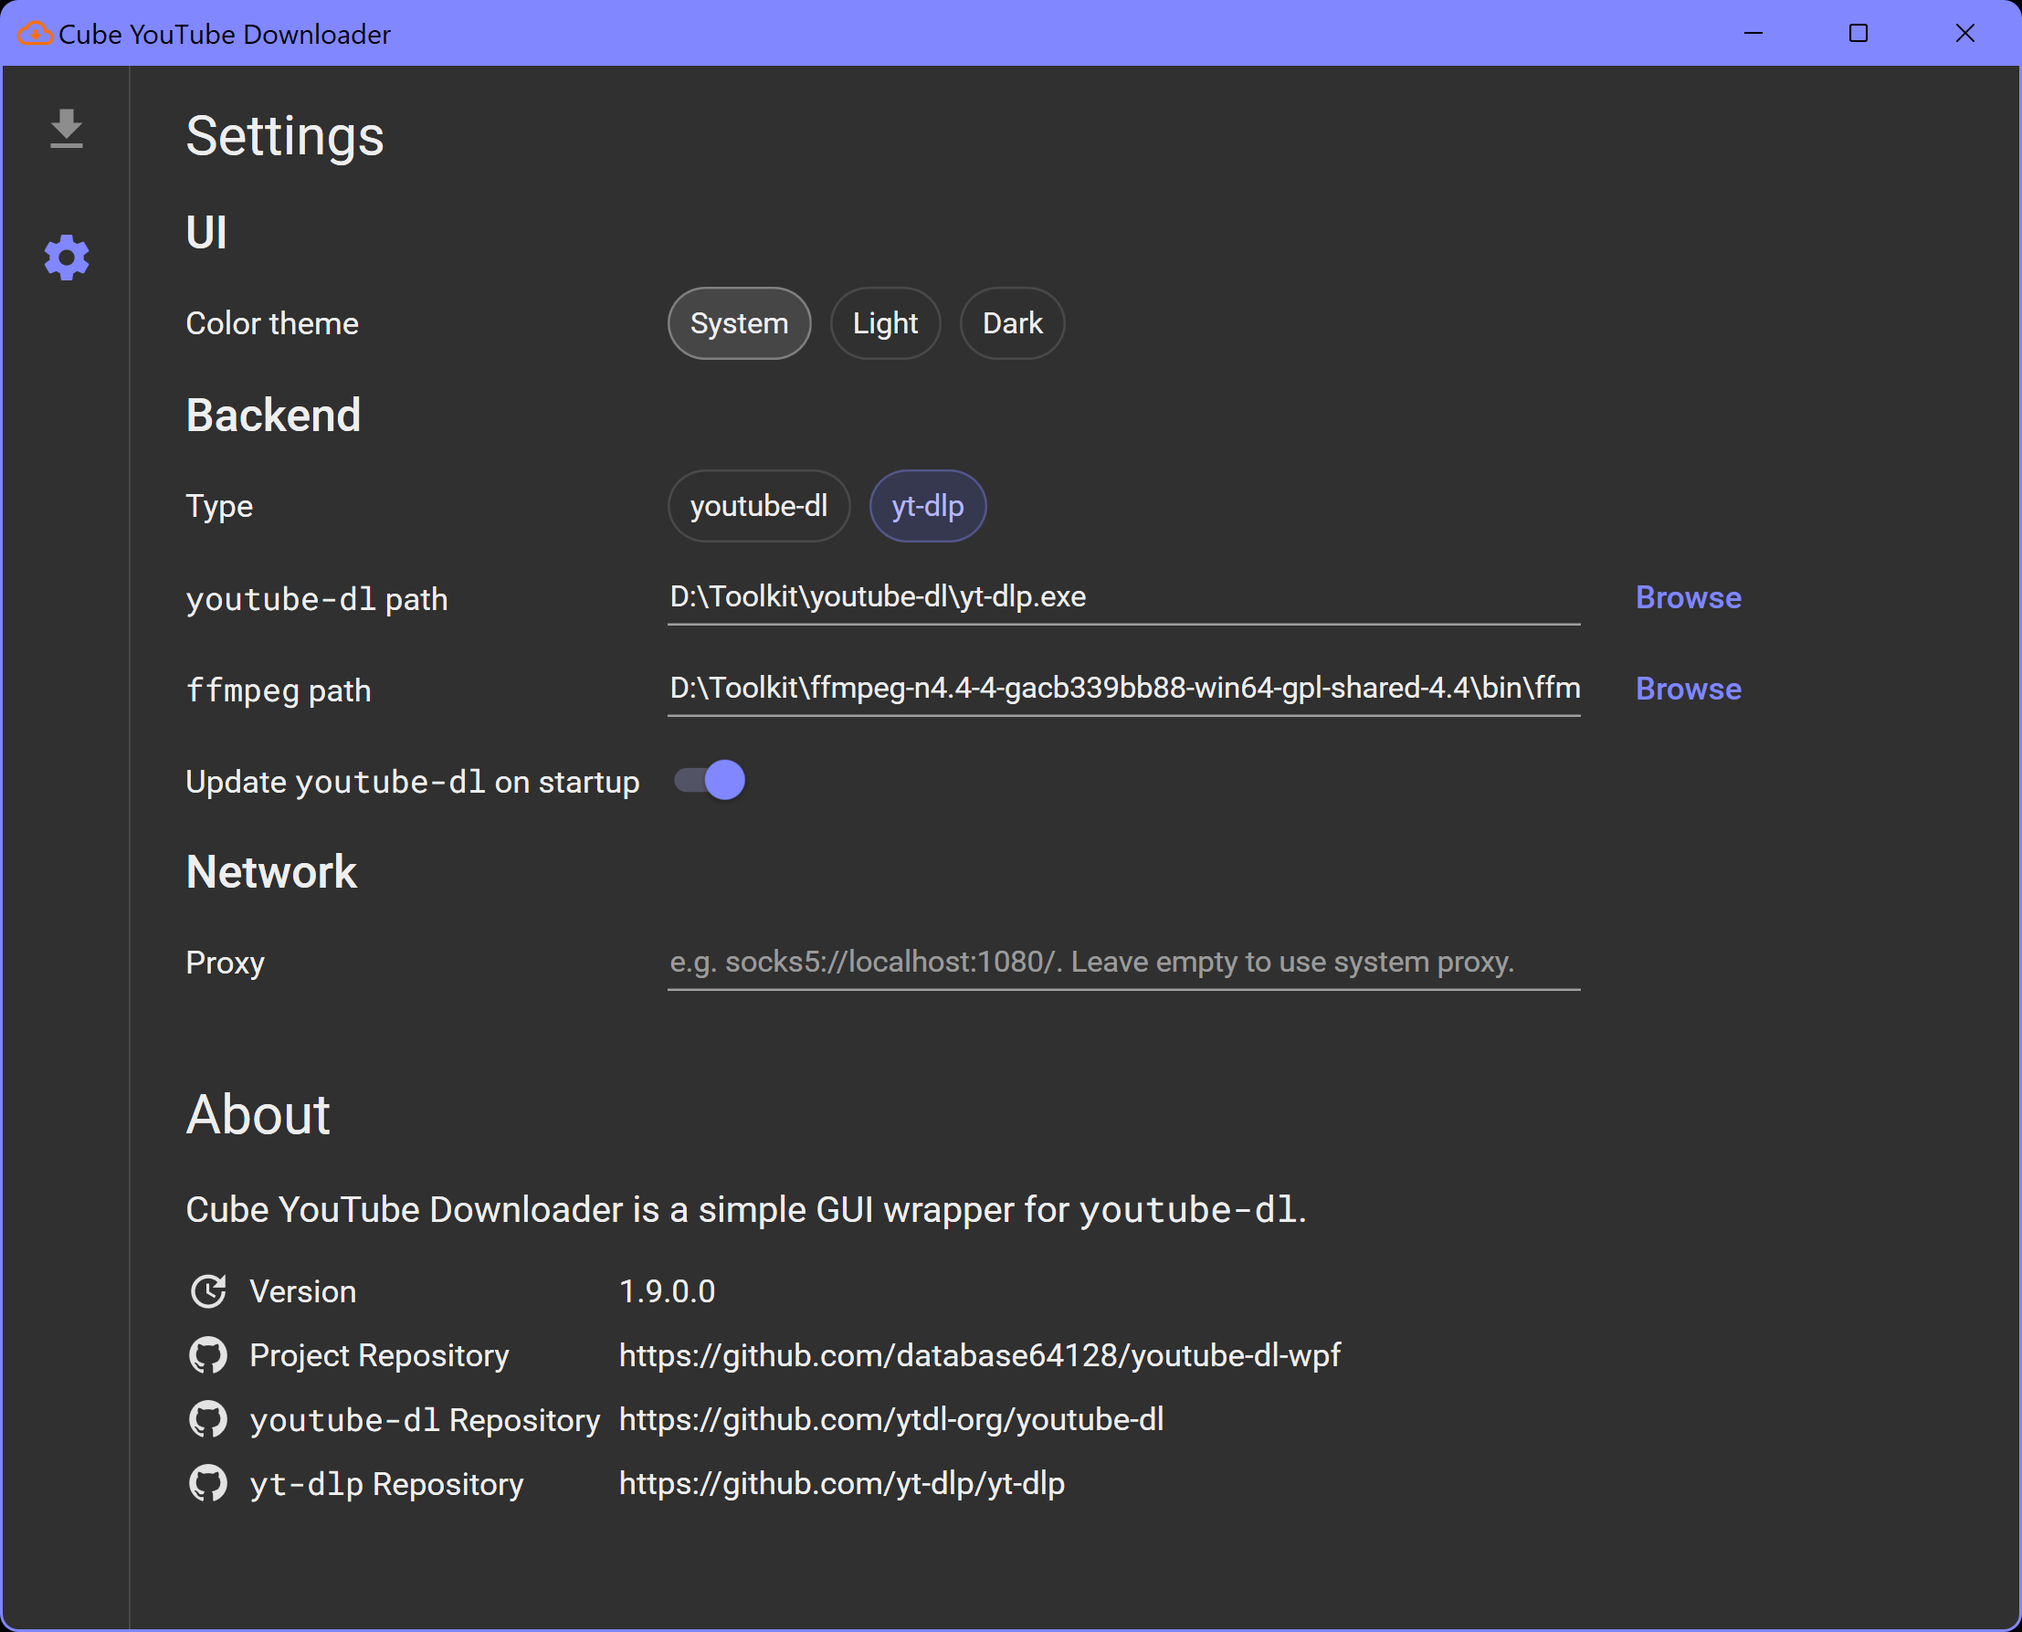
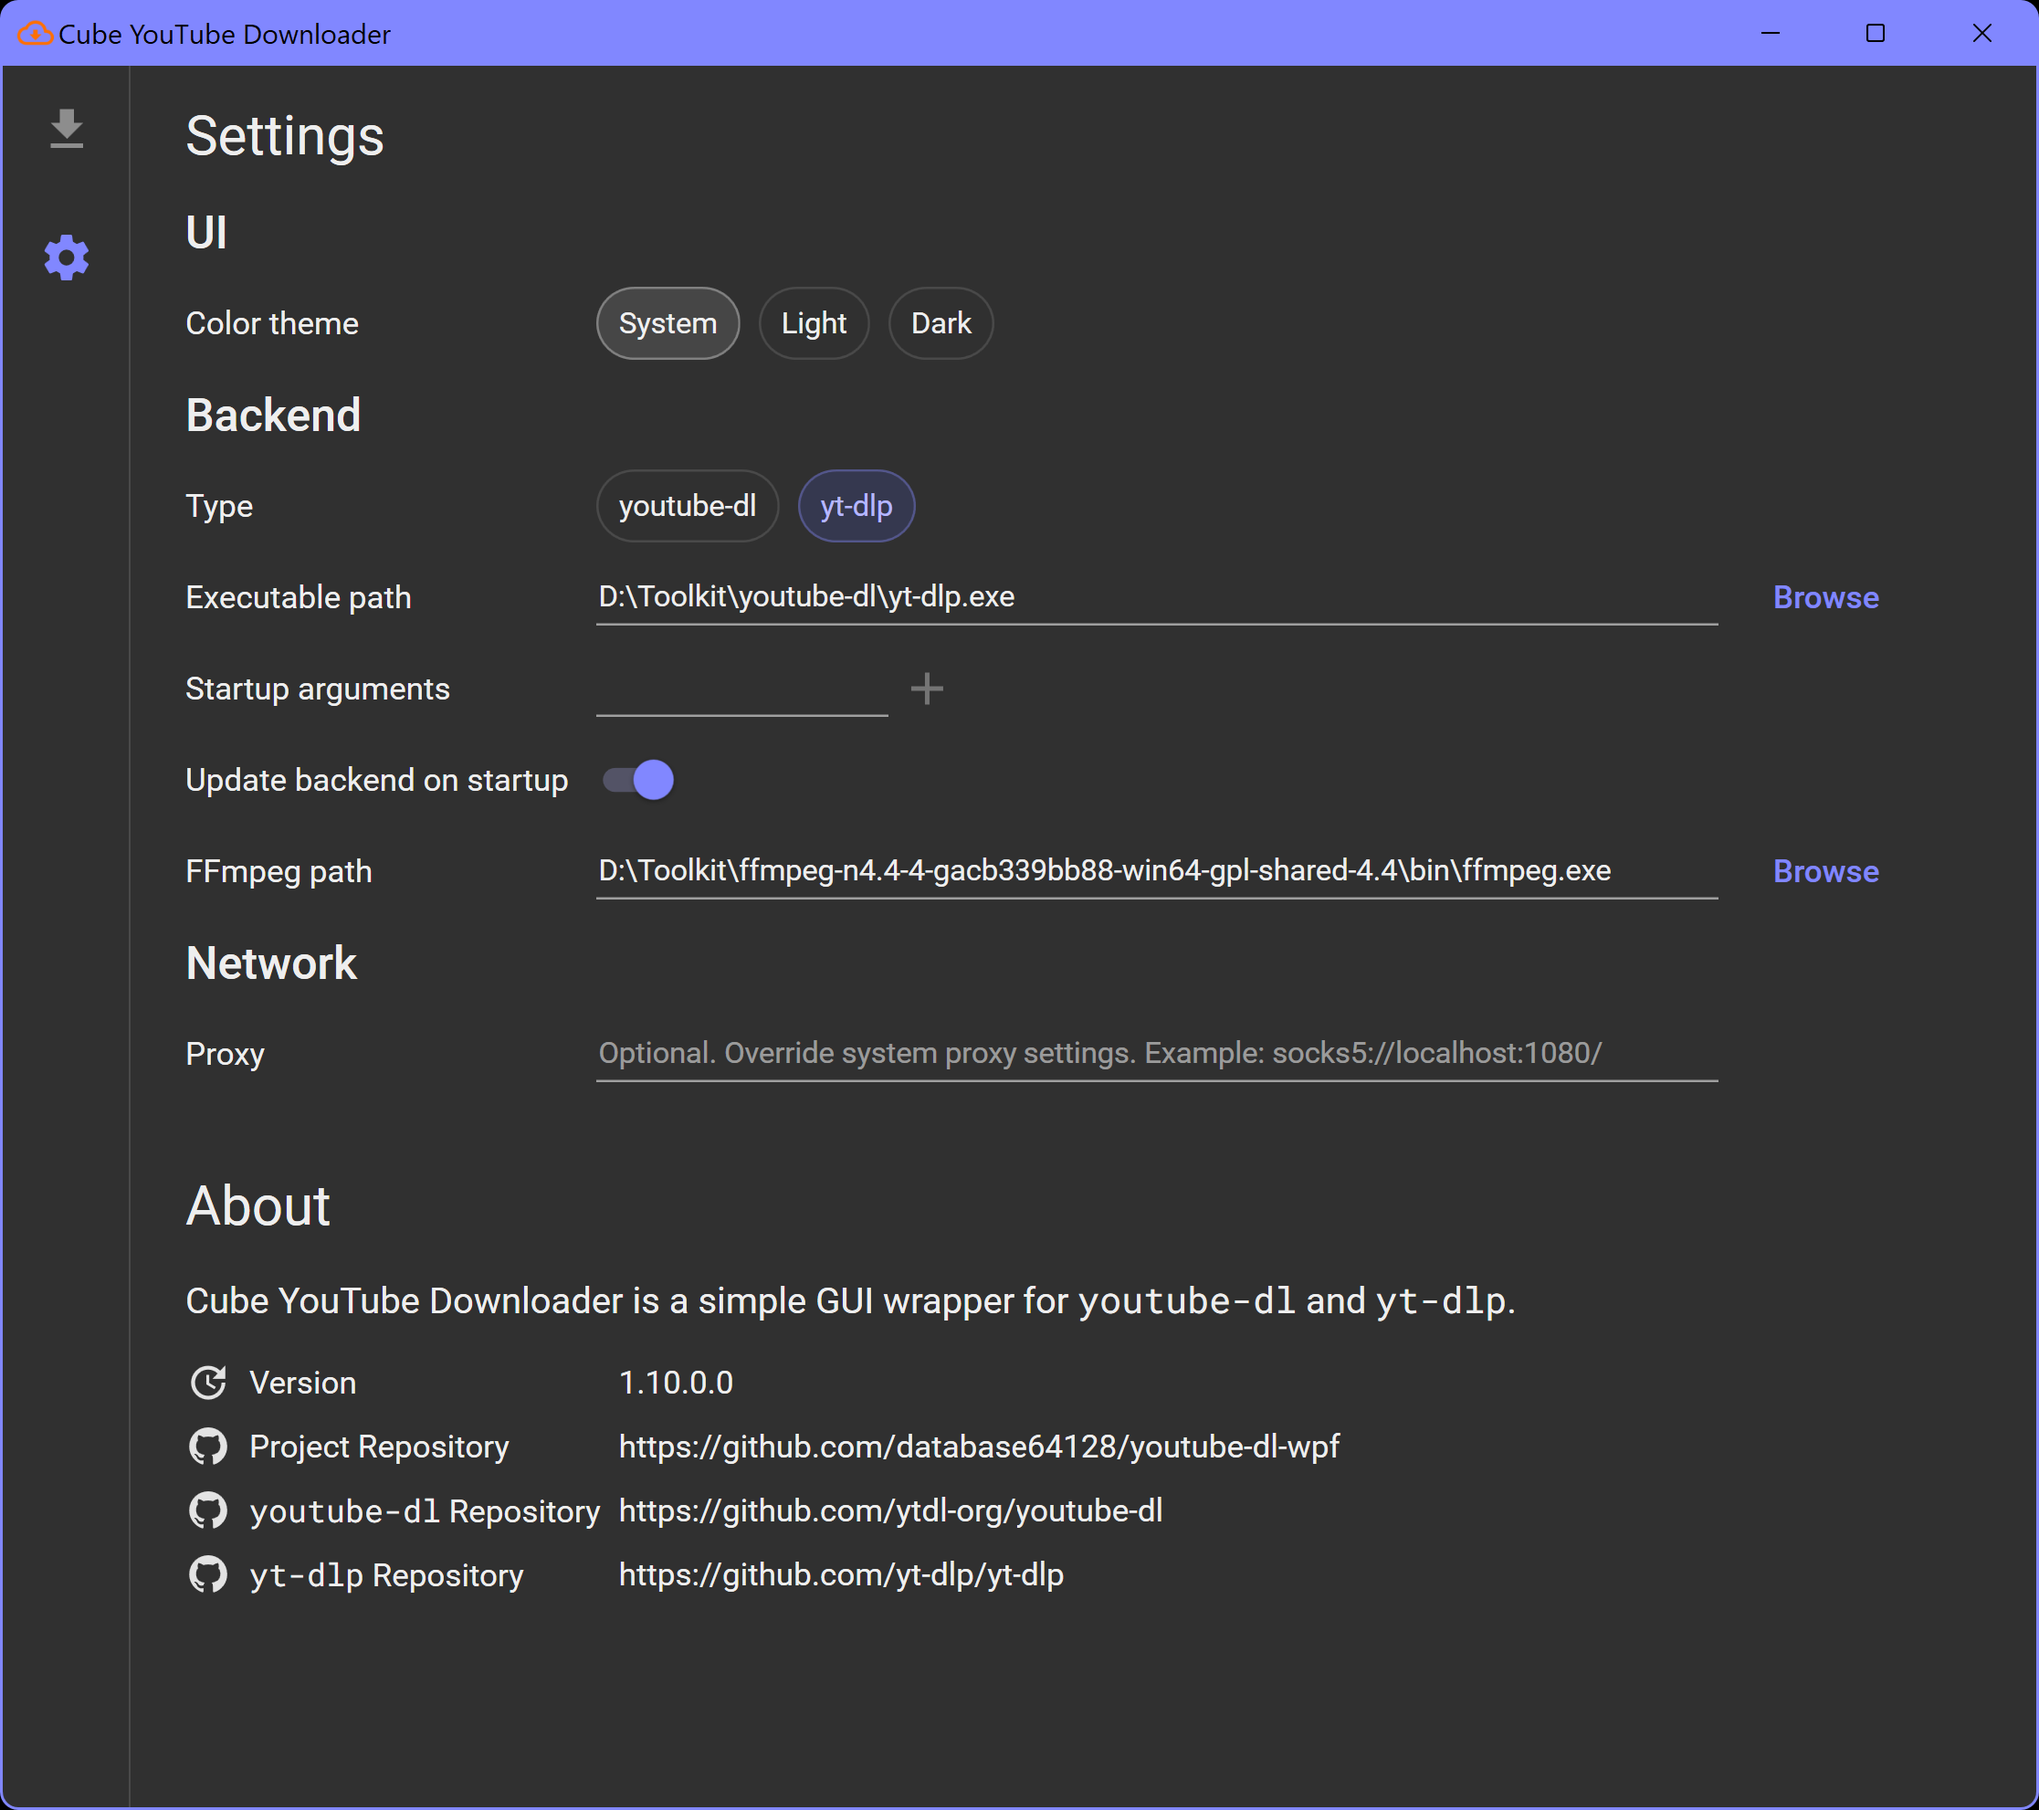
🦃 Bump version to v1.10 and update screenshots and README

diff --git a/README.md b/README.md
@@ -22,6 +22,7 @@ A simple GUI wrapper for [`youtube-dl`](https://github.com/ytdl-org/youtube-dl) 
 - Specify custom download path.
 - Specify custom `ffmpeg` path.
 - Specify custom proxy.
+- Specify custom command-line arguments.
 
 ## Usage
 
@@ -63,18 +64,28 @@ Prerequisites: .NET 6 SDK
 
 Note for packagers: The application by default uses executable directory as config directory. To use user's config directory, define the constant `PACKAGED` when building.
 
+###  Build with Release configuration
+
 ```bash
-# Build with Release configuration
-$ dotnet build -c Release
+dotnet build -c Release
+```
 
-# Publish as framework-dependent
-$ dotnet publish YoutubeDl.Wpf -c Release
+### Publish as framework-dependent
 
-# Publish as self-contained for Windows x64
-$ dotnet publish YoutubeDl.Wpf -c Release -r win-x64 --self-contained
+```bash
+dotnet publish YoutubeDl.Wpf -c Release
+```
 
-# Publish as self-contained for packaging on Windows x64
-$ dotnet publish YoutubeDl.Wpf -c Release -p:DefineConstants=PACKAGED -r win-x64 --self-contained
+### Publish as self-contained for Windows x64
+
+```bash
+dotnet publish YoutubeDl.Wpf -c Release -r win-x64 --self-contained
+```
+
+### Publish as self-contained for packaging on Windows x64
+
+```bash
+dotnet publish YoutubeDl.Wpf -c Release -p:DefineConstants=PACKAGED -r win-x64 --self-contained
 ```
 
 ## License

diff --git a/Backends.md b/Backends.md
@@ -5,3 +5,5 @@
 ## Differences
 
 1. Download and embed subtitles: `youtube-dl` requires both `--write-sub` and `--embed-subs`, while `yt-dlp` only requires `--embed-subs`. Using `--write-sub` with `yt-dlp` results in the downloaded subtitle file being kept after embedding.
+2. Default output template: `youtube-dl` uses `%(title)s-%(id)s.%(ext)s`. `yt-dlp` uses `%(title)s [%(id)s].%(ext)s`. `youtube-dl-wpf` respects each backend's default, while allowing you to specify a custom output template.
+3. Metadata embedding: `youtube-dl` has `--add-metadata`. `yt-dlp` introduced `--embed-metadata` and still accepts `--add-metadata` as an alias. `youtube-dl-wpf` selects the best option based on which backend you are using.
